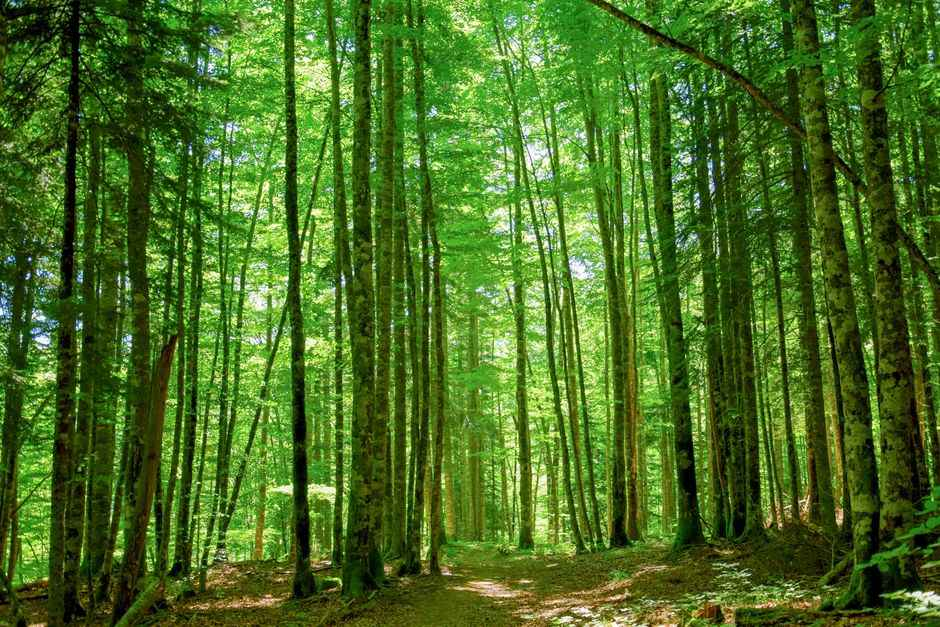
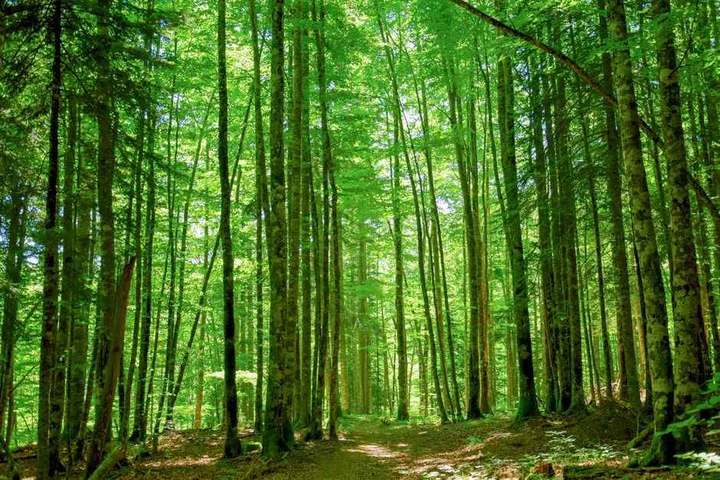
blog: publish signs-of-inflammation-in-the-body

diff --git a/blog/signs-of-inflammation-in-the-body.html b/blog/signs-of-inflammation-in-the-body.html
@@ -1,0 +1,151 @@
+<!DOCTYPE html>
+
+<html lang="en">
+<head>
+<meta charset="utf-8"/>
+<meta content="width=device-width, initial-scale=1" name="viewport"/>
+<title>Signs of Inflammation in the Body: What to Notice | Renewal Health with Lynette Wing</title>
+<meta content="Signs of inflammation in the body: how short-term and long-term inflammation can show up, what can sit behind them, and when to see your doctor." name="description"/>
+<link href="https://renewalhealth.life/blog/signs-of-inflammation-in-the-body.html" rel="canonical"/>
+<meta content="Signs of Inflammation in the Body: What to Notice" property="og:title"/>
+<meta content="Signs of inflammation in the body: how short-term and long-term inflammation can show up, what can sit behind them, and when to see your doctor." property="og:description"/>
+<meta content="https://renewalhealth.life/assets/blog/signs-of-inflammation-in-the-body/hero.jpg" property="og:image"/>
+<meta content="https://renewalhealth.life/blog/signs-of-inflammation-in-the-body.html" property="og:url"/>
+<meta content="article" property="og:type"/>
+<meta content="Renewal Health with Lynette Wing" property="og:site_name"/>
+<meta content="summary_large_image" name="twitter:card"/>
+<meta content="Signs of Inflammation in the Body: What to Notice" name="twitter:title"/>
+<meta content="Signs of inflammation in the body: how short-term and long-term inflammation can show up, what can sit behind them, and when to see your doctor." name="twitter:description"/>
+<link href="../assets/v2.css?v=26" rel="stylesheet"/>
+<script src="../assets/analytics.js" defer></script>
+</head>
+<body class="has-hero">
+<header class="v2-header">
+<div class="bar">
+<a class="v2-logo" href="../index.html"><img alt="Renewal Health with Lynette Wing" src="../assets/images.squarespace-cdn.com/content/v1/69de66d56f606e4d8a63fcb5/1557bced-4e06-4bfe-9242-8937f45cbe3d/renewalhealth2stack.jpg"/></a>
+<nav aria-label="Main navigation" class="v2-nav">
+<ul>
+<li><a href="../index.html">Home</a></li>
+<li class="has-drop"><a href="../services.html">Services</a>
+<ul class="dropdown"><li><a href="../services.html">Services Overview</a></li><li><a href="../detox.html">Detox</a></li><li><a href="../gut-health-support.html">Gut Health Support</a></li><li><a href="../weight-metabolic-health.html">Weight Loss &amp; Metabolic Health</a></li><li><a href="../hormone-balance-support.html">Hormone Balance</a></li><li><a href="../inflammation-support.html">Inflammation Support</a></li><li><a href="../emotional-overwhelm-nervous-system.html">Emotional Overwhelm &amp; Nervous System Support</a></li><li><a href="../neurodivergent-support.html">Neurodivergent Support</a></li><li class="drop-sep"><a href="../programs-packages.html">Programs &amp; Packages</a></li></ul></li>
+<li class="has-drop"><a href="../about-lynette-wing-renewal-health.html">About</a>
+<ul class="dropdown"><li><a href="../about-lynette-wing-renewal-health.html">Meet Lynette Wing</a></li><li><a href="../why-a-dragonfly-renewal-health.html">Why a Dragonfly?</a></li><li><a href="../naturopathy-homeopathy-holistic-healing.html">What is Naturopathy and Homeopathy?</a></li></ul></li>
+<li><a href="../testimonials.html">Testimonials</a></li>
+<li><a href="../blog.html">Blog</a></li>
+</ul>
+<a class="btn btn-primary nav-cta" href="../contact-renewal-health.html">Contact</a>
+</nav>
+<a class="v2-call" href="tel:+15804611686" aria-label="Call Renewal Health at 580.461.1686" data-cta="header-call"><svg viewBox="0 0 24 24" width="15" height="15" aria-hidden="true" focusable="false"><path fill="currentColor" d="M6.6 10.8a15.1 15.1 0 0 0 6.6 6.6l2.2-2.2c.3-.3.7-.4 1-.2 1.2.4 2.4.6 3.6.6.6 0 1 .4 1 1V20c0 .6-.4 1-1 1A17 17 0 0 1 3 4c0-.6.4-1 1-1h3.5c.6 0 1 .4 1 1 0 1.3.2 2.5.6 3.6.1.4 0 .8-.2 1l-2.3 2.2z"/></svg><span>580.461.1686</span></a>
+<button aria-label="Menu" class="nav-toggle"><span></span><span></span><span></span></button>
+</div>
+</header>
+<main>
+<section class="page-hero has-photo ph-quiet">
+<div class="ph-bg"><img alt="" aria-hidden="true" src="../assets/blog/signs-of-inflammation-in-the-body/hero.jpg"/></div>
+<div class="ph-veil"></div>
+<div class="inner">
+<p class="eyebrow">Listening to Your Body</p>
+<h1>Signs of Inflammation in the Body: What to Notice</h1>
+<p class="post-byline">By Lynette Wing, Clinical Homeopath, Naturopath, Mind-Body Practitioner &#183; November 5, 2026</p>
+</div>
+</section>
+<section class="section article intro-reveal"><div class="inner narrow flow">
+<a class="post-back" href="../blog.html">&#8592; Back to the blog</a>
+<div class="rh-toc">
+<strong>In this post</strong>
+<ul>
+<li><a href="#what-is-inflammation-and-is-it-always-bad">What is inflammation, and is it always bad?</a></li><li><a href="#what-are-the-signs-of-short-term-inflammation">What are the signs of short-term inflammation?</a></li><li><a href="#what-are-the-signs-of-chronic-inflammation">What are the signs of chronic inflammation?</a></li><li><a href="#what-can-keep-inflammation-going">What can keep inflammation going?</a></li><li><a href="#how-can-you-support-your-body-gently">How can you support your body gently?</a></li><li><a href="#when-should-you-see-a-doctor-about-inflammation">When should you see a doctor about inflammation?</a></li><li><a href="#pause-for-reflection">Pause for Reflection</a></li><li><a href="#faq">FAQ</a></li>
+</ul>
+</div>
+<p>Common signs of inflammation include redness, swelling, heat, and pain after an injury or infection. Long-term inflammation is quieter and can show up as fatigue, poor sleep, joint stiffness, digestive trouble, skin rashes, or frequent infections. These signs have many possible causes, so only your physician can tell you what is behind them.</p>
+<h2 id="what-is-inflammation-and-is-it-always-bad">What is inflammation, and is it always bad?</h2>
+<p>No. Inflammation is one of the ways your body protects you. According to <a href="https://my.clevelandclinic.org/health/symptoms/21660-inflammation" rel="noopener" target="_blank">Cleveland Clinic</a>, it is your body's normal response to illness, injury, or something that does not belong there, and it allows you to heal. Think of a cut finger that turns warm and pink. That is your body sending its first responders.</p>
+<img alt="What is inflammation, and is it always bad?" loading="lazy" src="../assets/blog/signs-of-inflammation-in-the-body/what-is-inflammation-and-is-it-always-bad.jpg"/>
+<p>The trouble comes when the response goes on too long, or shows up in healthy tissue with no injury or invader to deal with. I think of it as an alarm that was right to ring and never got the message to stop. Your body is not attacking you out of spite. It is working hard with the information it has.</p>
+<h2 id="what-are-the-signs-of-short-term-inflammation">What are the signs of short-term inflammation?</h2>
+<p>Short-term, or acute, inflammation is sudden and temporary, and it tends to be easy to see. Cleveland Clinic lists:</p>
+<img alt="What are the signs of short-term inflammation?" loading="lazy" src="../assets/blog/signs-of-inflammation-in-the-body/what-are-the-signs-of-shortterm-inflammation.jpg"/>
+<ul><li>Flushed skin</li><li>Pain or tenderness</li><li>Swelling</li><li>Heat in the area</li></ul>
+<p>These usually settle as you heal. A fever during an illness can be part of the same response.</p>
+<h2 id="what-are-the-signs-of-chronic-inflammation">What are the signs of chronic inflammation?</h2>
+<p>Chronic inflammation can go on for months or years, and it may come and go. It is harder to spot, because its signs can look like ordinary life in a tired body. Cleveland Clinic notes that people may have:</p>
+<img alt="What are the signs of chronic inflammation?" loading="lazy" src="../assets/blog/signs-of-inflammation-in-the-body/what-are-the-signs-of-chronic-inflammation.jpg"/>
+<ul><li>Fatigue or insomnia</li><li>Joint pain or stiffness</li><li>Belly pain, or digestive trouble like diarrhea, constipation, or acid reflux</li><li>Skin rashes or mouth sores</li><li>Low mood or anxiety</li><li>Weight gain or weight loss</li><li>Frequent infections</li></ul>
+<p>Read that list gently. It is not a test, and having a few of these does not tell you that you have chronic inflammation. Plenty of other things can sit behind each one, which is why they deserve a real conversation with your doctor and not an internet verdict.</p>
+<p>Still, I want you to notice when these signs travel together. It is easy to spend years treating each one as a separate problem. Symptoms are messengers, and sometimes several of them are carrying the same letter. If your joints have been talking lately, you may also find my post on <a href="../blog/can-stress-cause-joint-pain.html">whether stress can cause joint pain</a> helpful.</p>
+<h2 id="what-can-keep-inflammation-going">What can keep inflammation going?</h2>
+<p>It is rarely one thing. Long seasons of stress, poor sleep, digestive imbalance, and eating patterns that leave you undernourished can all add to the load. Long-term inflammation is also part of many medical conditions, including autoimmune and heart conditions, so it needs to be taken seriously.</p>
+<img alt="What can keep inflammation going?" loading="lazy" src="../assets/blog/signs-of-inflammation-in-the-body/what-can-keep-inflammation-going.jpg"/>
+<p>This is where I slow people down. A body that feels hunted does not rest well, digest well, or repair well. That is why I look at the whole terrain, and I wrote more about that in <a href="../blog/chronic-inflammation-natural-support.html">the quiet fire of chronic inflammation</a>.</p>
+<h2 id="how-can-you-support-your-body-gently">How can you support your body gently?</h2>
+<p>There is no single food, tea, or capsule that quiets all of this. There are steady signals you can offer your body:</p>
+<img alt="How can you support your body gently?" loading="lazy" src="../assets/blog/signs-of-inflammation-in-the-body/how-can-you-support-your-body-gently.jpg"/>
+<ul><li><strong>Eat a broad, colorful pattern.</strong> Cleveland Clinic points to the Mediterranean Diet, which research shows can lower inflammation levels. A dietitian can help you adapt it.</li><li><strong>Protect your sleep.</strong> A steady bedtime gives your body a regular window for repair.</li><li><strong>Move gently and often.</strong> Short walks count. So does stretching.</li><li><strong>Give your nervous system a way to stand down.</strong> A long exhale, time outside, or an easy conversation all tell your body that the fire may be out.</li></ul>
+<p>If you would like someone to look at the bigger picture with you, you can read about my <a href="../inflammation-support.html">inflammation support</a>, or see how longer work is set up in my <a href="../programs-packages.html">programs and packages</a>.</p>
+<h2 id="when-should-you-see-a-doctor-about-inflammation">When should you see a doctor about inflammation?</h2>
+<p>Make an appointment if any of these signs linger, keep returning, or start to interfere with your life. Your physician can examine you and decide whether blood work or other tests make sense.</p>
+<img alt="When should you see a doctor about inflammation?" loading="lazy" src="../assets/blog/signs-of-inflammation-in-the-body/when-should-you-see-a-doctor-about-inflammation.jpg"/>
+<p>Seek urgent care for chest pain, trouble breathing, a high fever that will not come down, or sudden severe pain. Please keep taking any prescribed medication as directed, and talk with your physician before making changes.</p>
+<div class="rh-reflect"><h2 id="pause-for-reflection">Pause for Reflection</h2>
+<p>Rest a hand wherever your body has been loudest lately, and let one slow breath leave you.</p>
+<img alt="Pause for Reflection" loading="lazy" src="../assets/blog/signs-of-inflammation-in-the-body/pause-for-reflection.jpg"/>
+<p>What has this part of you been trying to say? What would it feel like to listen, without scolding it?</p>
+<p>"I will praise thee; for I am fearfully and wonderfully made" (Psalm 139:14, KJV). Even the body that aches is not your enemy. It is your most honest witness, and it has been working on your behalf all along.</p>
+</div><h2 id="faq">FAQ</h2>
+<h3>How do you know if you have inflammation?</h3>
+<p>You cannot tell from symptoms alone, because so many things can cause them. A physician can look at your history, examine you, and decide whether blood tests make sense. Bring a simple note of what you have been noticing and when it started.</p>
+<h3>Can stress cause inflammation in the body?</h3>
+<p>Stress and inflammation are closely linked, and long seasons of pressure can affect sleep, digestion, and how your body feels day to day. Stress is rarely the only factor, though, so please have lasting symptoms evaluated by your physician.</p>
+<h3>How long does chronic inflammation last?</h3>
+<p>It can last months or years, and it may improve for a time and then return. How long it lasts depends on what is behind it, which is one more reason to work with your physician on finding out.</p>
+<h3>How do I start working with you?</h3>
+<p>If you would like to talk through whether this is a fit, you can <a href="../contact-renewal-health.html">send me a message through my contact page</a>, and we can look at gentle next steps together.</p>
+<blockquote>This article is for educational purposes and is not medical advice. It is not intended to diagnose, treat, cure, or prevent any disease. Please work with a qualified practitioner, and consult your physician before making changes to your health routine.</blockquote>
+<p><a href="#top">Back to top</a></p>
+<div class="rh-signoff">
+<p>In Renewal,</p>
+<p><strong>Lynette Wing</strong><br/>
+    Founder of Renewal Health<br/>
+    Clinical Homeopath, Naturopath, Mind-Body Practitioner<br/>
+    Dedicated to root-cause healing and whole-person alignment. Guiding clients to emerge, align, and live fully, restoring vitality, clarity, and sustainable wellness. <a href="../about-lynette-wing-renewal-health.html">About Lynette</a></p>
+</div>
+</div></section>
+<section class="section bg-cream"><div class="inner">
+<div class="cta-panel reveal">
+<h2 class="serif">Start Your Renewal</h2>
+<a class="btn btn-light" href="../contact-renewal-health.html">Contact Lynette to Schedule Your Consultation!</a>
+<a class="btn btn-quiet" href="tel:+15804611686" data-cta="panel-call">Or call 580.461.1686</a>
+</div>
+</div></section>
+</main>
+<footer class="v2-footer">
+<div class="inner">
+<div class="foot-grid">
+<div>
+<span class="foot-logo"><img alt="Renewal Health with Lynette Wing" src="../assets/images.squarespace-cdn.com/content/v1/69de66d56f606e4d8a63fcb5/1557bced-4e06-4bfe-9242-8937f45cbe3d/renewalhealth2stack.jpg"/></span>
+<p class="foot-tag">Emerge. Align. Live Fully.</p>
+</div>
+<div><h5>Services</h5><ul><li><a href="../detox.html">Detox</a></li><li><a href="../gut-health-support.html">Gut Health Support</a></li><li><a href="../weight-metabolic-health.html">Weight Loss &amp; Metabolic Health</a></li><li><a href="../hormone-balance-support.html">Hormone Balance</a></li><li><a href="../inflammation-support.html">Inflammation Support</a></li><li><a href="../emotional-overwhelm-nervous-system.html">Emotional Overwhelm &amp; Nervous System Support</a></li><li><a href="../neurodivergent-support.html">Neurodivergent Support</a></li></ul></div>
+<div><h5>About</h5><ul><li><a href="../about-lynette-wing-renewal-health.html">Meet Lynette Wing</a></li><li><a href="../why-a-dragonfly-renewal-health.html">Why a Dragonfly?</a></li><li><a href="../naturopathy-homeopathy-holistic-healing.html">What is Naturopathy and Homeopathy?</a></li></ul></div>
+<div><h5>Explore</h5><ul><li><a href="../programs-packages.html">Programs &amp; Packages</a></li><li><a href="../testimonials.html">Patient Testimonials</a></li><li><a href="../blog.html">Blog</a></li><li><a href="../contact-renewal-health.html">Contact</a></li></ul></div>
+</div>
+<div class="foot-contact">
+<a href="tel:+15804611686" data-cta="footer-call"><svg viewBox="0 0 24 24" width="15" height="15" aria-hidden="true" focusable="false"><path fill="currentColor" d="M6.6 10.8a15.1 15.1 0 0 0 6.6 6.6l2.2-2.2c.3-.3.7-.4 1-.2 1.2.4 2.4.6 3.6.6.6 0 1 .4 1 1V20c0 .6-.4 1-1 1A17 17 0 0 1 3 4c0-.6.4-1 1-1h3.5c.6 0 1 .4 1 1 0 1.3.2 2.5.6 3.6.1.4 0 .8-.2 1l-2.3 2.2z"/></svg><span>580.461.1686</span></a>
+<a href="mailto:lynette@renewalhealth.life" data-cta="footer-email">lynette@renewalhealth.life</a>
+<a href="../contact-renewal-health.html">Contact Lynette</a>
+</div>
+<div class="foot-base">
+<span>&#169; Renewal Health with Lynette Wing</span>
+<span>Personalized naturopathic &amp; homeopathic care</span>
+</div>
+</div>
+</footer>
+<script src="../assets/v2.js?v=26"></script>
+<script type="application/ld+json">
+{"@context": "https://schema.org", "@type": "Article", "headline": "Signs of Inflammation in the Body: What to Notice", "description": "Signs of inflammation in the body: how short-term and long-term inflammation can show up, what can sit behind them, and when to see your doctor.", "author": {"@type": "Person", "name": "Lynette Wing", "jobTitle": "Clinical Homeopath, Naturopath, Mind-Body Practitioner", "url": "https://renewalhealth.life/about-lynette-wing-renewal-health"}, "publisher": {"@type": "Organization", "name": "Renewal Health with Lynette Wing", "url": "https://renewalhealth.life"}, "datePublished": "2026-11-05", "mainEntityOfPage": "https://renewalhealth.life/blog/signs-of-inflammation-in-the-body"}
+</script>
+<script type="application/ld+json">
+{"@context": "https://schema.org", "@type": "FAQPage", "mainEntity": [{"@type": "Question", "name": "How do you know if you have inflammation?", "acceptedAnswer": {"@type": "Answer", "text": "You cannot tell from symptoms alone, because so many things can cause them. A physician can look at your history, examine you, and decide whether blood tests make sense. Bring a simple note of what you have been noticing and when it started."}}, {"@type": "Question", "name": "Can stress cause inflammation in the body?", "acceptedAnswer": {"@type": "Answer", "text": "Stress and inflammation are closely linked, and long seasons of pressure can affect sleep, digestion, and how your body feels day to day. Stress is rarely the only factor, though, so please have lasting symptoms evaluated by your physician."}}, {"@type": "Question", "name": "How long does chronic inflammation last?", "acceptedAnswer": {"@type": "Answer", "text": "It can last months or years, and it may improve for a time and then return. How long it lasts depends on what is behind it, which is one more reason to work with your physician on finding out."}}, {"@type": "Question", "name": "How do I start working with you?", "acceptedAnswer": {"@type": "Answer", "text": "If you would like to talk through whether this is a fit, you can send me a message through my contact page, and we can look at gentle next steps together."}}]}
+</script>
+</body>
+</html>

diff --git a/blog.html b/blog.html
@@ -56,6 +56,15 @@
 <a class="text-link" href="guide.html">Read the free guide</a>
 </div>
 <div class="blog-grid">
+<a class="blog-card reveal" href="blog/signs-of-inflammation-in-the-body.html">
+<div class="blog-thumb"><img alt="signs of inflammation in the body - Renewal Health" loading="lazy" src="assets/blog/signs-of-inflammation-in-the-body/hero.jpg"/></div>
+<div class="blog-body">
+<div class="blog-meta"><span>Inflammation Support</span><span class="dot"></span><span>November 5, 2026</span></div>
+<h3>Signs of Inflammation in the Body: What to Notice</h3>
+<p>Swelling and heat are easy to spot. Long-term inflammation is quieter. Here is what people often notice, what it can mean, and when to see your doctor.</p>
+<span class="text-link">Read the post</span>
+</div>
+</a>
 <a class="blog-card reveal" href="blog/naturopath-vs-homeopath.html">
 <div class="blog-thumb"><img alt="naturopath vs homeopath - Renewal Health" loading="lazy" src="assets/blog/naturopath-vs-homeopath/hero.jpg"/></div>
 <div class="blog-body">
